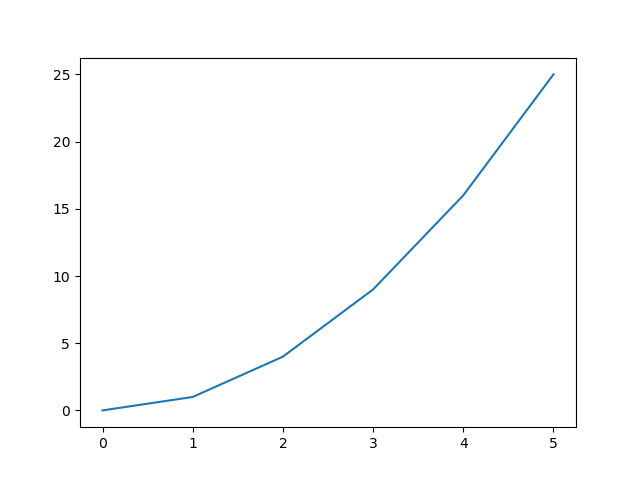
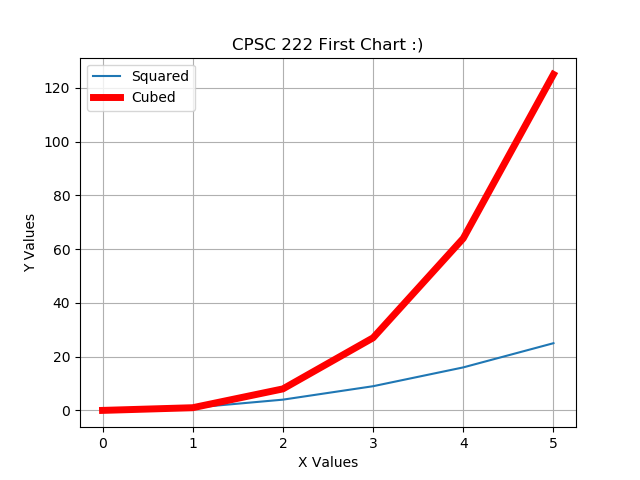
code at end of fridays class

diff --git a/VisualizationFun/main.py b/VisualizationFun/main.py
@@ -22,10 +22,18 @@ import matplotlib.pyplot as plt
 # 2. OOP interface
 # 3. mix of the first two
 
-def line_chart_example(x, y, filename):
+def line_chart_example(x, y, y2, filename):
     # x, y could be 1D lists, 
     # numpy arrays, pandas Series
-    plt.plot(x, y) 
+    plt.plot(x, y, label="Squared") 
+    plt.plot(x, y2, label="Cubed", color="red", lw=5)
+
+    # beautify our chart!!
+    plt.title("CPSC 222 First Chart :)")
+    plt.xlabel("X Values")
+    plt.ylabel("Y Values")
+    plt.grid(True)
+    plt.legend() # show a legend
 
     # need to "show()" the figure
     # or save the figure to a file
@@ -33,6 +41,15 @@ def line_chart_example(x, y, filename):
     #plt.show() 
     plt.savefig(filename)
 
+def scatter_chart_example(x, y, filename):
+    plt.figure() # creates a new "current" figure
+    plt.scatter(x, y, s=500, marker="x", color="green")
+    plt.savefig(filename)
+
+def bar_chart_example(x, y, filename):
+    plt.figure() # creates a new "current" figure
+    plt.bar(x, y)
+    plt.savefig(filename)
 
 def main():
     msrp_df = pd.read_csv("msrp.csv")
@@ -59,8 +76,13 @@ def main():
     # let's chart!!
     x = list(range(6)) # 0, 1, 2, 3, 4, 5
     y = []
+    y2 = []
     for val in x:
         y.append(val ** 2)
-    line_chart_example(x, y, "line_example.pdf") # call
+        y2.append(val ** 3)
+    line_chart_example(x, y, y2, "line_example.png") # call
+
+    scatter_chart_example(x, y, "scatter_example.png")
+    bar_chart_example(x, y, "bar_example.png")
 
 main()
